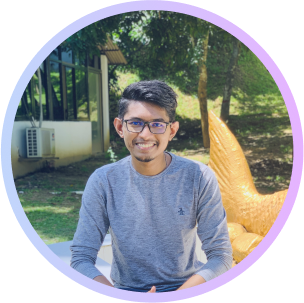
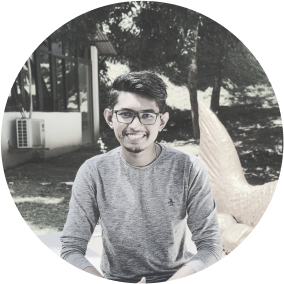
contents updated

diff --git a/docs/styles/main.css b/docs/styles/main.css
@@ -1,1 +1,1 @@
-@import url(https://fonts.googleapis.com/css2?family=Inter:wght@300;400;500;600;700;800;900&display=swap);::selection{background:#121619;color:#fdfdfd}::after,::before{box-sizing:border-box}html,html:focus-within{scroll-behavior:smooth}body{margin:0;padding:0;text-rendering:optimizeSpeed;font-size-adjust:none;box-sizing:border-box}h1,h2,h3,h4,p,ul{margin:0;padding:0}img,picture{max-width:100%;display:block}a{text-decoration:none}@media (prefers-reduced-motion:reduce){html:focus-within{scroll-behavior:auto}*,::after,::before{animation-duration:0s!important;animation-iteration-count:1!important;transition-duration:0s!important;scroll-behavior:auto!important}}body{position:relative;font-family:Inter,"Segoe UI",sans-serif;font-size:100%;font-weight:400;line-height:1.5;letter-spacing:-.5px;background:#f6f6f6;color:#121619}.category_title{font-weight:900;font-size:2.25rem;color:rgba(18,22,25,.5);margin-bottom:1.2rem;background:linear-gradient(60deg,#3374f3 0,#9021ff 100%);-webkit-background-clip:text;background-clip:text;-webkit-text-fill-color:transparent;opacity:.8;transition:all .3s ease-in-out}.category_image{border-radius:1rem;margin-bottom:1.2rem}.category_subtitle{font-size:1.5rem;font-weight:700;line-height:1.3}.category_meta{font-size:1rem;font-weight:500;line-height:1.3;color:rgba(18,22,25,.5);margin:.6rem 0 1.2rem 0}.category_meta a{color:rgba(18,22,25,.5)}.category_meta a:hover{color:#3374f3}.category_info,.category_link{color:rgba(18,22,25,.8)}.category_info ul,.category_link ul{margin:1rem 0 0 1rem}.category_link{margin-top:1rem}.category_link a{position:relative;color:#3374f3;background:#f2f7ff;font-weight:500}.category_link a::after{content:"";position:absolute;top:100%;right:0;width:100%;height:1.8px;background:#3374f3;transition:all .3s ease-in-out}.category_link a:hover::after{width:0}.category_extra_btn{display:inline-block;font-size:1rem;padding:.6rem 2.2rem;background:#f2f7ff;color:#3374f3;font-weight:600;border-radius:10px;transition:all .3s ease-in-out;border-radius:30px;background:#3374f3;color:#fdfdfd;margin-top:1.8rem}.hero{position:relative;padding:2rem 10%;height:70vh;background:url(../images/hero_bg.jpg) no-repeat fixed bottom right;background-size:cover;z-index:0}.hero::after{content:"";position:absolute;width:100%;height:100%;top:0;left:0;background:linear-gradient(180deg,rgba(246,246,246,.6) 34.38%,#f6f6f6 100%);z-index:-1}header{display:flex;align-items:center;justify-content:space-between}.logo_container{cursor:default;font-size:0}.logo_container:hover span{color:#3374f3}.logo_container b,.logo_container span{font-size:24px;font-weight:900;color:#3374f3}.logo_container span{color:rgba(51,116,243,.3);transition:color .1s ease-in-out}.logo_container span:nth-child(1){transition-delay:.1s}.logo_container span:nth-child(2){transition-delay:.2s}.logo_container span:nth-child(3){transition-delay:.3s}.logo_container span:nth-child(4){transition-delay:.4s}.logo_container span:nth-child(5){transition-delay:.5s}.logo_container span:nth-child(6){transition-delay:.6s}.logo_container span:nth-child(7){transition-delay:.7s}.logo_container span:nth-child(8){transition-delay:.8s}.logo_container span:nth-child(9){transition-delay:.9s}.logo_container span:nth-child(10){transition-delay:1s}header nav{background:#fdfdfd;padding:.3rem .4rem;border-radius:30px;box-shadow:0 10px 50px rgba(18,22,25,.05);font-size:0}header nav a{padding:.6rem 2.2rem;color:#3374f3;font-size:1rem;border-radius:30px;display:inline-block;overflow:hidden}header nav a:last-child{display:inline-block;font-size:1rem;padding:.6rem 2.2rem;background:#f2f7ff;color:#3374f3;font-weight:600;border-radius:10px;transition:all .3s ease-in-out;border-radius:30px;background:#3374f3;color:#fdfdfd;position:relative;overflow:hidden;z-index:0}header nav a:last-child::after{display:inline-block;font-size:1rem;padding:.6rem 2.2rem;background:#f2f7ff;color:#3374f3;font-weight:600;border-radius:10px;transition:all .3s ease-in-out;border-radius:30px;background:#3374f3;color:#fdfdfd;content:"Email";text-align:center;position:absolute;top:100%;left:0;background:#3374f3;width:100%;height:100%;z-index:1;opacity:0;visibility:hidden}header nav a:last-child:hover::after{top:0;opacity:1;visibility:visible}.quick_intro{position:absolute;bottom:4rem;display:flex;align-items:center}.quick_intro img{width:15rem;margin-right:1.5rem}.quick_intro_text_group h1{font-size:3.8rem;font-weight:900;line-height:1}.quick_intro_text_group ul{margin-top:.6rem}.quick_intro_text_group ul li{list-style:none;font-size:1.2rem;font-weight:600;color:rgba(18,22,25,.3)}.quick_intro_text_group a{display:inline-block;font-size:1rem;padding:.6rem 2.2rem;background:#f2f7ff;color:#3374f3;font-weight:600;border-radius:10px;transition:all .3s ease-in-out;border-radius:30px;background:#3374f3;color:#fdfdfd;position:relative;margin-top:1.5rem;overflow:hidden;z-index:0}.quick_intro_text_group a::after{display:inline-block;font-size:1rem;padding:.6rem 2.2rem;background:#f2f7ff;color:#3374f3;font-weight:600;border-radius:10px;transition:all .3s ease-in-out;border-radius:30px;background:#3374f3;color:#fdfdfd;content:"40 MB, PDF";text-align:center;position:absolute;top:100%;left:0;background:#3374f3;width:100%;height:100%;z-index:1;opacity:0;visibility:hidden}.quick_intro_text_group a:hover::after{top:0;opacity:1;visibility:visible}.landing_quick_links{position:absolute;bottom:4rem;right:10%;display:flex;flex-direction:column;align-items:end}.landing_quick_links a{display:inline-block;font-size:1rem;padding:.6rem 2.2rem;background:#f2f7ff;color:#3374f3;font-weight:600;border-radius:10px;transition:all .3s ease-in-out;border-radius:30px;background:#f2f7ff;color:#3374f3;margin-top:.8rem;font-weight:400;background:rgba(253,253,253,.6);backdrop-filter:blur(60px)}.landing_quick_links a:hover{background:#3374f3;color:#fdfdfd}.resume_container{padding:2rem 10%;display:grid;grid-template-columns:1.5fr 1fr;column-gap:2rem}.resume_container aside .categories,.resume_container main .categories{margin-bottom:2rem}.categories{padding:3rem;background:#fdfdfd;border-radius:30px}.categories:hover .category_title{opacity:1}.portfolio_links a{display:inline-block;font-size:1rem;padding:.6rem 2.2rem;background:#f2f7ff;color:#3374f3;font-weight:600;border-radius:10px;transition:all .3s ease-in-out;background:#f2f7ff;color:#3374f3;display:inline-flex;align-items:center;margin-bottom:1rem}.portfolio_links a:hover{background:#3374f3;color:#fdfdfd}.portfolio_links a:last-child{margin-bottom:0}.portfolio_links a:hover svg{fill:#fdfdfd}.portfolio_links a svg{width:1rem;margin-right:.5rem;fill:#3374f3;transition:all .3s ease-in-out}.education .education_wrap:last-child{margin-top:1.8rem}.expertise span{display:inline-block;font-size:1rem;padding:.6rem 2.2rem;background:#f2f7ff;color:#111e35;font-weight:600;border-radius:10px;margin-bottom:1rem}.expertise span:last-child{margin-bottom:0}.technologies{font-size:0}.technologies span{display:inline-block;font-size:1rem;padding:.6rem 2.2rem;background:#f2f7ff;color:#111e35;font-weight:600;border-radius:10px;margin-bottom:1rem;margin-right:1rem}.technologies span:last-child{margin-bottom:0}.languages{font-size:0}.languages strong{display:inline-block;font-size:1rem;padding:.6rem 2.2rem;background:#f2f7ff;color:#111e35;font-weight:600;border-radius:10px;margin-bottom:1rem}.languages strong:last-child{margin-bottom:0}.languages strong b{font-weight:900;margin-right:.3rem}.languages strong span{font-weight:400;color:rgba(18,22,25,.5)}.hobbies{font-size:0}.hobbies a,.hobbies span{display:inline-block;font-size:1rem;padding:.6rem 2.2rem;background:#f2f7ff;color:#111e35;font-weight:600;border-radius:10px;margin-bottom:1rem;margin-right:1rem}.hobbies a:last-child,.hobbies span:last-child{margin-bottom:0}footer{padding:2rem 10%;background:#111e35;color:rgba(253,253,253,.8)}.footer_bottom,.footer_top{padding:1rem 0;display:flex;justify-content:space-between;border-bottom:1px solid rgba(51,116,243,.4)}.footer_bottom .footer_top_right a,.footer_top .footer_top_right a{margin-left:1rem;color:#fdfdfd;transition:all .3s ease-in-out}.footer_bottom .footer_top_right a:hover,.footer_top .footer_top_right a:hover{color:#80a9f8}.footer_bottom{border:none}.footer_bottom .footer_bottom_left a{margin-right:1rem;color:#fdfdfd;transition:all .3s ease-in-out}.footer_bottom .footer_bottom_left a:hover{color:#80a9f8}.footer_bottom .footer_bottom_right a{color:#fdfdfd;transition:all .3s ease-in-out}.footer_bottom .footer_bottom_right a:hover{color:#80a9f8}.modal_overlay{position:fixed;overflow:auto;top:0;left:0;width:100%;height:100%;background-color:rgba(18,22,25,.1);mix-blend-mode:normal;backdrop-filter:blur(180px);z-index:999;visibility:hidden;opacity:0;transition:all .3s ease-in-out}.modal_overlay.active{opacity:1;visibility:visible}#coming_soon_modal{position:absolute;width:80%;top:2rem;text-align:center;background:#f6f6f6;border-radius:30px;padding:5rem 2rem;margin:5rem 10%;z-index:1000;box-sizing:border-box;visibility:hidden;opacity:0;transition:all .3s ease-in-out}#coming_soon_modal.active{top:0;visibility:visible;opacity:1}.coming_soon_contents h1{margin-bottom:0}.coming_soon_contents p{margin:0 0 1.5rem 0}.coming_soon_contents span{display:inline-block;font-size:1rem;padding:.6rem 2.2rem;background:#f2f7ff;color:#3374f3;font-weight:600;border-radius:10px;transition:all .3s ease-in-out;border-radius:30px;background:#3374f3;color:#fdfdfd;cursor:pointer}#community_modal,#experiences_modal{position:absolute;top:2rem;margin:5rem 10%;padding:0 10%;z-index:1000;opacity:0;visibility:hidden;transition:all .3s ease-in-out}#community_modal.active,#experiences_modal.active{top:0;opacity:1;visibility:visible}#community_modal .modal_title,#experiences_modal .modal_title{display:flex;align-items:center;justify-content:space-between;margin-bottom:1.2rem}#community_modal .modal_title .category_title,#experiences_modal .modal_title .category_title{background:0 0;-webkit-background-clip:unset;background-clip:unset;-webkit-text-fill-color:unset;color:#121619;margin-bottom:0}#community_modal .modal_title span,#experiences_modal .modal_title span{cursor:pointer;width:3rem;height:3rem;background:#fdfdfd;border-radius:50%;display:flex;align-items:center;justify-content:center}#community_modal .experiences,#community_modal .extracurricular,#experiences_modal .experiences,#experiences_modal .extracurricular{margin-bottom:1.2rem;opacity:0;visibility:hidden;transform:translateY(5rem);transition:all .3s ease-in-out}#community_modal .experiences.one,#community_modal .extracurricular.one,#experiences_modal .experiences.one,#experiences_modal .extracurricular.one{transition-delay:.1s}#community_modal .experiences.two,#community_modal .extracurricular.two,#experiences_modal .experiences.two,#experiences_modal .extracurricular.two{transition-delay:.2s}#community_modal .experiences.active,#community_modal .extracurricular.active,#experiences_modal .experiences.active,#experiences_modal .extracurricular.active{transform:translateY(0);opacity:1;visibility:visible}#community_modal .close_modal_btn_wrap,#experiences_modal .close_modal_btn_wrap{display:flex;margin-bottom:5rem}#community_modal .close_modal_btn_wrap .close_modal_btn,#experiences_modal .close_modal_btn_wrap .close_modal_btn{display:inline-block;font-size:1rem;padding:.6rem 2.2rem;background:#f2f7ff;color:#3374f3;font-weight:600;border-radius:10px;transition:all .3s ease-in-out;border-radius:30px;background:#3374f3;color:#fdfdfd;cursor:pointer;margin-left:auto}
+@import url(https://fonts.googleapis.com/css2?family=Inter:wght@300;400;500;600;700;800;900&display=swap);::selection{background:#121619;color:#fdfdfd}::after,::before{box-sizing:border-box}html,html:focus-within{scroll-behavior:smooth}body{margin:0;padding:0;text-rendering:optimizeSpeed;font-size-adjust:none;box-sizing:border-box}h1,h2,h3,h4,p,ul{margin:0;padding:0}img,picture{max-width:100%;display:block}a{text-decoration:none}@media (prefers-reduced-motion:reduce){html:focus-within{scroll-behavior:auto}*,::after,::before{animation-duration:0s!important;animation-iteration-count:1!important;transition-duration:0s!important;scroll-behavior:auto!important}}body{position:relative;font-family:Inter,"Segoe UI",sans-serif;font-size:100%;font-weight:400;line-height:1.5;letter-spacing:-.5px;background:#f6f6f6;color:#121619}.category_title{font-weight:900;font-size:2.25rem;color:rgba(18,22,25,.5);margin-bottom:1.2rem;background:linear-gradient(60deg,#3374f3 0,#9021ff 100%);-webkit-background-clip:text;background-clip:text;-webkit-text-fill-color:transparent;opacity:.8;transition:all .3s ease-in-out}.category_image{border-radius:1rem;margin-bottom:1.2rem}.category_subtitle{font-size:1.5rem;font-weight:700;line-height:1.3}.category_meta{font-size:1rem;font-weight:500;line-height:1.3;color:rgba(18,22,25,.5);margin:.6rem 0 1.2rem 0}.category_meta a{color:rgba(18,22,25,.5)}.category_meta a:hover{color:#3374f3}.category_info,.category_link{color:rgba(18,22,25,.8)}.category_info ul,.category_link ul{margin:1rem 0 0 1rem}.category_link{margin-top:1rem}.category_link a{position:relative;color:#3374f3;background:#f2f7ff;font-weight:500}.category_link a::after{content:"";position:absolute;top:100%;right:0;width:100%;height:1.8px;background:#3374f3;transition:all .3s ease-in-out}.category_link a:hover::after{width:0}.category_extra_btn{display:inline-block;font-size:1rem;padding:.6rem 2.2rem;background:#f2f7ff;color:#3374f3;font-weight:600;border-radius:10px;transition:all .3s ease-in-out;border-radius:30px;background:#3374f3;color:#fdfdfd;margin-top:1.8rem}.hero{position:relative;padding:2rem 10%;height:70vh;background:url(../images/hero_bg.jpg) no-repeat fixed bottom right;background-size:cover;z-index:0}.hero::after{content:"";position:absolute;width:100%;height:100%;top:0;left:0;background:linear-gradient(180deg,rgba(246,246,246,.6) 34.38%,#f6f6f6 100%);z-index:-1}header{display:flex;align-items:center;justify-content:space-between}.logo_container{cursor:default;font-size:0}.logo_container:hover span{color:#3374f3}.logo_container b,.logo_container span{font-size:24px;font-weight:900;color:#3374f3}.logo_container span{color:rgba(51,116,243,.3);transition:color .1s ease-in-out}.logo_container span:nth-child(1){transition-delay:.1s}.logo_container span:nth-child(2){transition-delay:.2s}.logo_container span:nth-child(3){transition-delay:.3s}.logo_container span:nth-child(4){transition-delay:.4s}.logo_container span:nth-child(5){transition-delay:.5s}.logo_container span:nth-child(6){transition-delay:.6s}.logo_container span:nth-child(7){transition-delay:.7s}.logo_container span:nth-child(8){transition-delay:.8s}.logo_container span:nth-child(9){transition-delay:.9s}.logo_container span:nth-child(10){transition-delay:1s}header nav{background:#fdfdfd;padding:.3rem .4rem;border-radius:30px;box-shadow:0 10px 50px rgba(18,22,25,.05);font-size:0}header nav a{padding:.6rem 2.2rem;color:#3374f3;font-size:1rem;border-radius:30px;display:inline-block;overflow:hidden}header nav a:last-child{display:inline-block;font-size:1rem;padding:.6rem 2.2rem;background:#f2f7ff;color:#3374f3;font-weight:600;border-radius:10px;transition:all .3s ease-in-out;border-radius:30px;background:#3374f3;color:#fdfdfd;position:relative;overflow:hidden;z-index:0}header nav a:last-child::after{display:inline-block;font-size:1rem;padding:.6rem 2.2rem;background:#f2f7ff;color:#3374f3;font-weight:600;border-radius:10px;transition:all .3s ease-in-out;border-radius:30px;background:#3374f3;color:#fdfdfd;content:"Email";text-align:center;position:absolute;top:100%;left:0;background:#3374f3;width:100%;height:100%;z-index:1;opacity:0;visibility:hidden}header nav a:last-child:hover::after{top:0;opacity:1;visibility:visible}.quick_intro{position:absolute;bottom:4rem;display:flex;align-items:center}.quick_intro img{width:15rem;margin-right:1.5rem;border:.35rem solid rgba(51,116,243,0);border-radius:50%;outline:.35rem solid #3374f3}.quick_intro_text_group h1{font-size:3.8rem;font-weight:900;line-height:1}.quick_intro_text_group ul{margin-top:.6rem}.quick_intro_text_group ul li{list-style:none;font-size:1.2rem;font-weight:600;color:rgba(18,22,25,.3)}.quick_intro_text_group a{display:inline-block;font-size:1rem;padding:.6rem 2.2rem;background:#f2f7ff;color:#3374f3;font-weight:600;border-radius:10px;transition:all .3s ease-in-out;border-radius:30px;background:#3374f3;color:#fdfdfd;position:relative;margin-top:1.5rem;overflow:hidden;z-index:0}.quick_intro_text_group a::after{display:inline-block;font-size:1rem;padding:.6rem 2.2rem;background:#f2f7ff;color:#3374f3;font-weight:600;border-radius:10px;transition:all .3s ease-in-out;border-radius:30px;background:#3374f3;color:#fdfdfd;content:"40 MB, PDF";text-align:center;position:absolute;top:100%;left:0;background:#3374f3;width:100%;height:100%;z-index:1;opacity:0;visibility:hidden}.quick_intro_text_group a:hover::after{top:0;opacity:1;visibility:visible}.landing_quick_links{position:absolute;bottom:4rem;right:10%;display:flex;flex-direction:column;align-items:end}.landing_quick_links a{display:inline-block;font-size:1rem;padding:.6rem 2.2rem;background:#f2f7ff;color:#3374f3;font-weight:600;border-radius:10px;transition:all .3s ease-in-out;border-radius:30px;background:#f2f7ff;color:#3374f3;margin-top:.8rem;font-weight:400;background:rgba(253,253,253,.6);backdrop-filter:blur(60px)}.landing_quick_links a:hover{background:#3374f3;color:#fdfdfd}.resume_container{padding:2rem 10%;display:grid;grid-template-columns:1.5fr 1fr;column-gap:2rem}.resume_container aside .categories,.resume_container main .categories{margin-bottom:2rem}.categories{padding:3rem;background:#fdfdfd;border-radius:30px}.categories:hover .category_title{opacity:1}.portfolio_links a{display:inline-block;font-size:1rem;padding:.6rem 2.2rem;background:#f2f7ff;color:#3374f3;font-weight:600;border-radius:10px;transition:all .3s ease-in-out;background:#f2f7ff;color:#3374f3;display:inline-flex;align-items:center;margin-bottom:1rem}.portfolio_links a:hover{background:#3374f3;color:#fdfdfd}.portfolio_links a:last-child{margin-bottom:0}.portfolio_links a:hover svg{fill:#fdfdfd}.portfolio_links a svg{width:1rem;margin-right:.5rem;fill:#3374f3;transition:all .3s ease-in-out}.education .education_wrap:last-child{margin-top:1.8rem}.expertise span{display:inline-block;font-size:1rem;padding:.6rem 2.2rem;background:#f2f7ff;color:#111e35;font-weight:600;border-radius:10px;margin-bottom:1rem}.expertise span:last-child{margin-bottom:0}.technologies{font-size:0}.technologies span{display:inline-block;font-size:1rem;padding:.6rem 2.2rem;background:#f2f7ff;color:#111e35;font-weight:600;border-radius:10px;margin-bottom:1rem;margin-right:1rem}.technologies span:last-child{margin-bottom:0}.languages{font-size:0}.languages strong{display:inline-block;font-size:1rem;padding:.6rem 2.2rem;background:#f2f7ff;color:#111e35;font-weight:600;border-radius:10px;margin-bottom:1rem}.languages strong:last-child{margin-bottom:0}.languages strong b{font-weight:900;margin-right:.3rem}.languages strong span{font-weight:400;color:rgba(18,22,25,.5)}.hobbies{font-size:0}.hobbies a,.hobbies span{display:inline-block;font-size:1rem;padding:.6rem 2.2rem;background:#f2f7ff;color:#111e35;font-weight:600;border-radius:10px;margin-bottom:1rem;margin-right:1rem}.hobbies a:last-child,.hobbies span:last-child{margin-bottom:0}footer{padding:2rem 10%;background:#111e35;color:rgba(253,253,253,.8)}.footer_bottom,.footer_top{padding:1rem 0;display:flex;justify-content:space-between;border-bottom:1px solid rgba(51,116,243,.4)}.footer_bottom .footer_top_right a,.footer_top .footer_top_right a{margin-left:1rem;color:#fdfdfd;transition:all .3s ease-in-out}.footer_bottom .footer_top_right a:hover,.footer_top .footer_top_right a:hover{color:#80a9f8}.footer_bottom{border:none}.footer_bottom .footer_bottom_left a{margin-right:1rem;color:#fdfdfd;transition:all .3s ease-in-out}.footer_bottom .footer_bottom_left a:hover{color:#80a9f8}.footer_bottom .footer_bottom_right a{color:#fdfdfd;transition:all .3s ease-in-out}.footer_bottom .footer_bottom_right a:hover{color:#80a9f8}.modal_overlay{position:fixed;overflow:auto;top:0;left:0;width:100%;height:100%;background-color:rgba(18,22,25,.1);mix-blend-mode:normal;-webkit-backdrop-filter:blur(30px);backdrop-filter:blur(30px);z-index:999;visibility:hidden;opacity:0;transition:all .3s ease-in-out}.modal_overlay.active{opacity:1;visibility:visible}#coming_soon_modal{position:absolute;width:80%;top:2rem;text-align:center;background:#f6f6f6;border-radius:30px;padding:5rem 2rem;margin:5rem 10%;z-index:1000;box-sizing:border-box;visibility:hidden;opacity:0;transition:all .3s ease-in-out}#coming_soon_modal.active{top:0;visibility:visible;opacity:1}.coming_soon_contents h1{margin-bottom:0}.coming_soon_contents p{margin:0 0 1.5rem 0}.coming_soon_contents span{display:inline-block;font-size:1rem;padding:.6rem 2.2rem;background:#f2f7ff;color:#3374f3;font-weight:600;border-radius:10px;transition:all .3s ease-in-out;border-radius:30px;background:#3374f3;color:#fdfdfd;cursor:pointer}#community_modal,#experiences_modal{position:absolute;top:2rem;margin:5rem 10%;padding:0 10%;z-index:1000;opacity:0;visibility:hidden;transition:all .3s ease-in-out}#community_modal.active,#experiences_modal.active{top:0;opacity:1;visibility:visible}#community_modal .modal_title,#experiences_modal .modal_title{display:flex;align-items:center;justify-content:space-between;margin-bottom:1.2rem}#community_modal .modal_title .category_title,#experiences_modal .modal_title .category_title{background:0 0;-webkit-background-clip:unset;background-clip:unset;-webkit-text-fill-color:unset;color:#121619;margin-bottom:0}#community_modal .modal_title span,#experiences_modal .modal_title span{cursor:pointer;width:3rem;height:3rem;background:#fdfdfd;border-radius:50%;display:flex;align-items:center;justify-content:center}#community_modal .experiences,#community_modal .extracurricular,#experiences_modal .experiences,#experiences_modal .extracurricular{margin-bottom:1.2rem;opacity:0;visibility:hidden;transform:translateY(5rem);transition:all .3s ease-in-out}#community_modal .experiences.one,#community_modal .extracurricular.one,#experiences_modal .experiences.one,#experiences_modal .extracurricular.one{transition-delay:.1s}#community_modal .experiences.two,#community_modal .extracurricular.two,#experiences_modal .experiences.two,#experiences_modal .extracurricular.two{transition-delay:.2s}#community_modal .experiences.active,#community_modal .extracurricular.active,#experiences_modal .experiences.active,#experiences_modal .extracurricular.active{transform:translateY(0);opacity:1;visibility:visible}#community_modal .close_modal_btn_wrap,#experiences_modal .close_modal_btn_wrap{display:flex;margin-bottom:5rem}#community_modal .close_modal_btn_wrap .close_modal_btn,#experiences_modal .close_modal_btn_wrap .close_modal_btn{display:inline-block;font-size:1rem;padding:.6rem 2.2rem;background:#f2f7ff;color:#3374f3;font-weight:600;border-radius:10px;transition:all .3s ease-in-out;border-radius:30px;background:#3374f3;color:#fdfdfd;cursor:pointer;margin-left:auto}

diff --git a/docs/index.html b/docs/index.html
@@ -169,11 +169,11 @@
                 <h1 class="category_title">Community Activities</h1>
                 <div class="extracurricular_wrap">
                     <!-- <img src="./images/software-developer-6521720_960_720 1.png" alt="" class="category_image"> -->
-                    <h2 class="category_subtitle">CySec Club · Gitam University</h2>
-                    <p class="category_meta">August 2022 - Member</p>
+                    <h2 class="category_subtitle">CodeX Club · Gitam University</h2>
+                    <p class="category_meta">August 2022 - Backend Lead & Technical Support</p>
 
                     <div class="category_info">
-                        Vibable Media is a digital marketing startup agency based in Dhaka, Bangladesh. Tushar's role was to create the official website for the agency that would showcase its services, accomplishment and agenda to its potential customers.
+                        CodeX is a student-run club for coding and all things technology at GITAM University. As a core member of the club, I am responsible for the development of the club's website and its maintenance.
                         <!-- <ul>
                             <li>Built the website using frontend technologies for all screen sizes.</li>
                             <li>Designed and updated the layouts to meet usability, convenience and performance.</li>
@@ -181,7 +181,7 @@
                         </ul> -->
                     </div>
                     <p class="category_link">
-                        Check the <a href="https://linktr.ee/cysec" target="_blank">club website</a>.
+                        Check the <a href="https://linktr.ee/CodeXGitam" target="_blank">club website</a>.
                     </p>
                 </div>
 
@@ -395,12 +395,12 @@
                         <p class="category_meta">August 2022 - Member</p>
 
                         <div class="category_info">
-                            Vibable Media is a digital marketing startup agency based in Dhaka, Bangladesh. Tushar's role was to create the official website for the agency that would showcase its services, accomplishment and agenda to its potential customers.
-                            <!-- <ul>
-                                <li>Built the website using frontend technologies for all screen sizes.</li>
-                                <li>Designed and updated the layouts to meet usability, convenience and performance.</li>
-                                <li>Leveraged updated technologies to create a pixel-perfect solution.</li>
-                            </ul> -->
+                            CySec is a club that aims to help the students of GITAM University to learn about cybersecurity and to help them to develop their skills in the field of cybersecurity. As a member of the club, 
+                            <ul>
+                                <li>I build home labs to implement offensive security.</li>
+                                <li>I learn with others about new tools and technologies.</li>
+                                <li>I collaborate with other members to help each other get better than yesterday.</li>
+                            </ul>
                         </div>
                         <p class="category_link">
                             Check the <a href="https://linktr.ee/cysec" target="_blank">club website</a>.

diff --git a/src/index.html b/src/index.html
@@ -169,11 +169,11 @@
                 <h1 class="category_title">Community Activities</h1>
                 <div class="extracurricular_wrap">
                     <!-- <img src="./images/software-developer-6521720_960_720 1.png" alt="" class="category_image"> -->
-                    <h2 class="category_subtitle">CySec Club · Gitam University</h2>
-                    <p class="category_meta">August 2022 - Member</p>
+                    <h2 class="category_subtitle">CodeX Club · Gitam University</h2>
+                    <p class="category_meta">August 2022 - Backend Lead & Technical Support</p>
 
                     <div class="category_info">
-                        Vibable Media is a digital marketing startup agency based in Dhaka, Bangladesh. Tushar's role was to create the official website for the agency that would showcase its services, accomplishment and agenda to its potential customers.
+                        CodeX is a student-run club for coding and all things technology at GITAM University. As a core member of the club, I am responsible for the development of the club's website and its maintenance.
                         <!-- <ul>
                             <li>Built the website using frontend technologies for all screen sizes.</li>
                             <li>Designed and updated the layouts to meet usability, convenience and performance.</li>
@@ -181,7 +181,7 @@
                         </ul> -->
                     </div>
                     <p class="category_link">
-                        Check the <a href="https://linktr.ee/cysec" target="_blank">club website</a>.
+                        Check the <a href="https://linktr.ee/CodeXGitam" target="_blank">club website</a>.
                     </p>
                 </div>
 
@@ -395,12 +395,12 @@
                         <p class="category_meta">August 2022 - Member</p>
 
                         <div class="category_info">
-                            Vibable Media is a digital marketing startup agency based in Dhaka, Bangladesh. Tushar's role was to create the official website for the agency that would showcase its services, accomplishment and agenda to its potential customers.
-                            <!-- <ul>
-                                <li>Built the website using frontend technologies for all screen sizes.</li>
-                                <li>Designed and updated the layouts to meet usability, convenience and performance.</li>
-                                <li>Leveraged updated technologies to create a pixel-perfect solution.</li>
-                            </ul> -->
+                            CySec is a club that aims to help the students of GITAM University to learn about cybersecurity and to help them to develop their skills in the field of cybersecurity. As a member of the club, 
+                            <ul>
+                                <li>I build home labs to implement offensive security.</li>
+                                <li>I learn with others about new tools and technologies.</li>
+                                <li>I collaborate with other members to help each other get better than yesterday.</li>
+                            </ul>
                         </div>
                         <p class="category_link">
                             Check the <a href="https://linktr.ee/cysec" target="_blank">club website</a>.

diff --git a/src/styles/components/_hero.scss b/src/styles/components/_hero.scss
@@ -69,9 +69,6 @@ header nav {
         display: inline-block;
         overflow: hidden;
 
-        // &.active {
-        //     @include linked_buttons("focused", $rounded: true);
-        // }
         &:last-child {
             @include linked_buttons("focused", "true");
             position: relative;
@@ -110,6 +107,9 @@ header nav {
     img {
         width: 15rem;
         margin-right: 1.5rem;
+        border: 0.35rem solid rgba($theme, 0);
+        border-radius: 50%;
+        outline: 0.35rem solid $theme;
     }
 }
 

diff --git a/src/styles/components/_modals.scss b/src/styles/components/_modals.scss
@@ -8,7 +8,8 @@
     height: 100%;
     background-color: rgba($black, 0.1);
     mix-blend-mode: normal;
-    backdrop-filter: blur(180px);
+    -webkit-backdrop-filter: blur(30px);
+    backdrop-filter: blur(30px);
     z-index: 999;
     visibility: hidden;
     opacity: 0;
